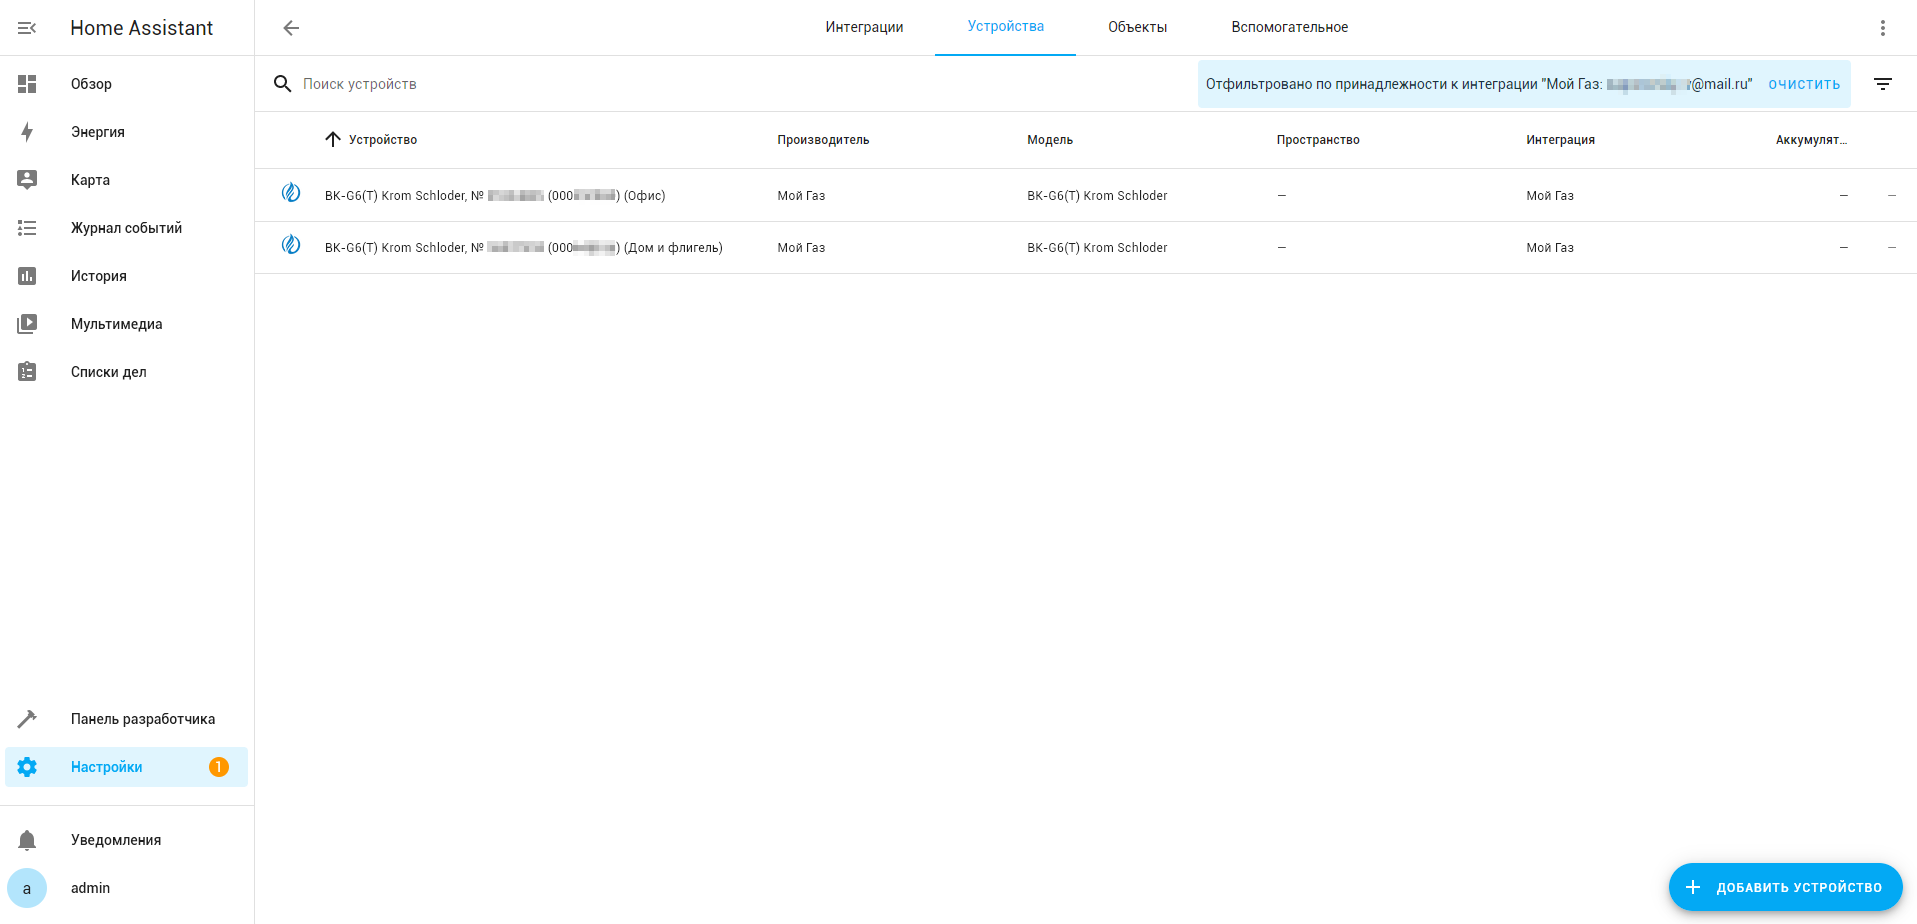
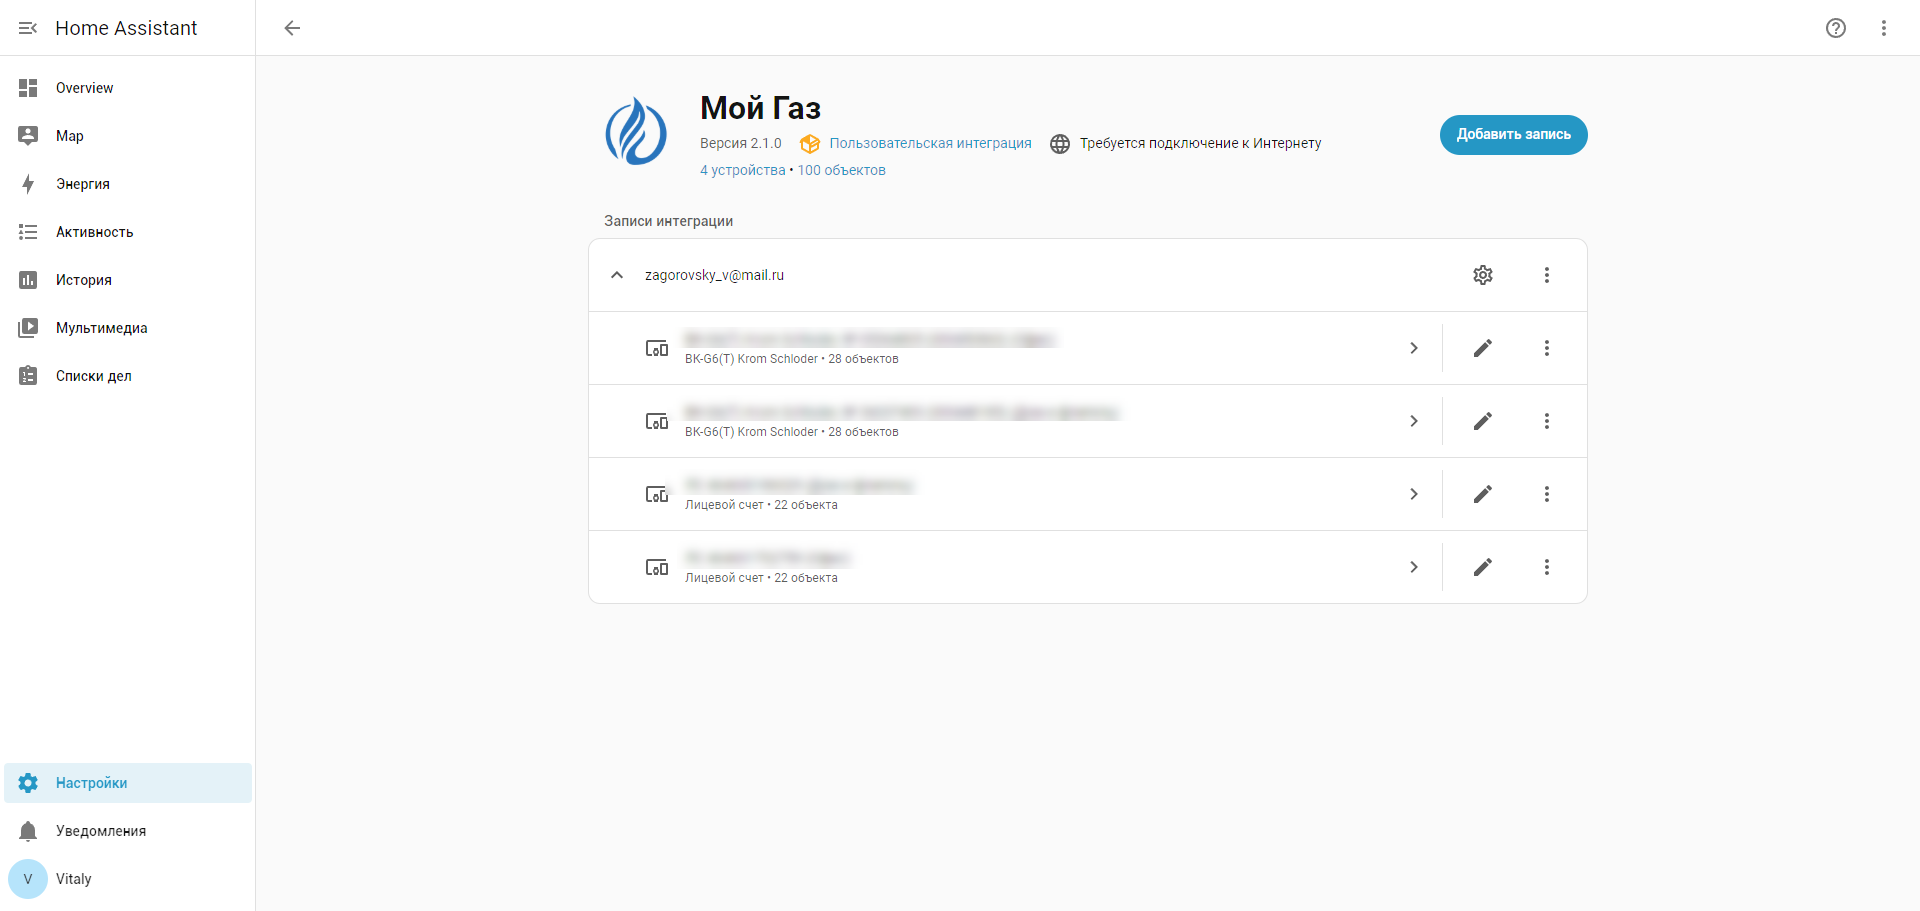
Consolidate v2.0.0 + v2.1.0 into v2.0.0 release, update screenshots

diff --git a/CHANGELOG.md b/CHANGELOG.md
@@ -5,30 +5,6 @@ All notable changes to this project will be documented in this file.
 The format is based on [Keep a Changelog](https://keepachangelog.com/en/1.0.0/),
 and this project adheres to [Semantic Versioning](https://semver.org/spec/v2.0.0.html).
 
-## [2.1.0] - 2026-02-18
-
-### Added
-
- - Добавлен Options Flow для настройки интервала обновления данных (1-168 часов, по умолчанию 24).
- - Добавлены переводы исключений (translated exceptions) в сервисах.
- - Добавлены секции `options` и `exceptions` в `strings.json` и файлы переводов.
-
-### Changed
-
- - Декоратор `async_api_request_handler` разделён на `async_retry` (чистая логика повторов) и `async_api_request_handler` (маппинг исключений для координатора).
- - Валидация в config flow использует `async_retry` и общий метод `_async_try_validate`, убрана дублированная обработка ошибок.
- - Переименовано `avabl_fn` → `available_fn` в entity descriptions.
- - Переименованы приватные хелперы `_to_str`, `_to_float`, `_to_int`, `_to_date` → `to_str`, `to_float`, `to_int`, `to_date`.
- - Добавлены аннотации `Final` к константам `SERVICE_SEND_READINGS`, `ATTR_ELS`, `ATTR_IS_ELS`, `ATTR_LSPU_INFO_GROUP`.
- - Убраны `after_dependencies` и `integration_type` из `manifest.json`.
- - Версия обновлена до 2.1.0.
-
-### Fixed
-
- - Исправлена ошибка `date.today()` → `dt_util.now().date()` в `helpers.py` и `coordinator.py` (учёт часового пояса HA).
- - Исправлена мёртвая обработка исключений в `_async_update_data`: `MyGasAuthError` не достигал блока, т.к. уже конвертировался декоратором.
- - Улучшена диагностика: редактирование `phone` и `email` в данных координатора.
-
 ## [2.0.0] - 2026-02-18
 
 ### Added
@@ -39,8 +15,10 @@ and this project adheres to [Semantic Versioning](https://semver.org/spec/v2.0.0
  - Устройства счетчиков привязаны к устройству аккаунта через `via_device`.
  - Добавлены сенсоры расчетного периода: начислено, оплачено, задолженность за период (включены по умолчанию), а также 14 дополнительных сенсоров (отключены по умолчанию): расчетный период, дата периода, сальдо на начало/конец, начисленный объем, оборот, списанная задолженность, плановая сумма, льготы, льготный объем, восстановленная задолженность, корректировки платежей, сальдо АПГП, авансовые начисления.
  - Устройства аккаунтов получили информативные имена: `ЛС {номер} ({алиас})`.
+ - Добавлен Options Flow для настройки интервала обновления данных (1-168 часов, по умолчанию 24).
  - Добавлен модуль диагностики (`diagnostics.py`).
- - Добавлен файл `strings.json` для hassfest.
+ - Добавлены переводы исключений (translated exceptions) в сервисах.
+ - Добавлен файл `strings.json` для hassfest с секциями `options` и `exceptions`.
  - Добавлены шаги `reconfigure` и `reauth_confirm` в переводы.
  - Добавлены юнит-тесты (config flow, init, coordinator, устройства аккаунта, сенсоры расчетного периода).
  - Добавлен CI workflow для запуска тестов.
@@ -48,25 +26,31 @@ and this project adheres to [Semantic Versioning](https://semver.org/spec/v2.0.0
 ### Changed
 
  - Миграция на `runtime_data` вместо `hass.data[DOMAIN]`.
+ - Декоратор `async_api_request_handler` разделён на `async_retry` (чистая логика повторов) и `async_api_request_handler` (маппинг исключений для координатора).
+ - Валидация в config flow использует `async_retry` и общий метод `_async_try_validate`, убрана дублированная обработка ошибок.
  - Выделен общий базовый класс `MyGasCoordinatorEntity` для сущностей аккаунта и счетчика.
  - Извлечен хелпер `make_entity_unique_id()` для генерации unique_id сущностей.
- - Убран `update_listener` (options flow отсутствует).
  - Упрощена выгрузка интеграции (`async_unload_entry`).
  - Координатор использует внутренний `_LOGGER` и `config_entry=` в `super().__init__()`.
  - Упрощены entity description классы (убран Mixin, один класс).
  - Убраны hardcoded `name` и `icon` из entity descriptions (используются `translation_key` и `icons.json`).
  - Убрана ручная генерация `entity_id` (`async_generate_entity_id`).
  - `sw_version` в DeviceInfo заменён на `aiomygas.__version__`.
+ - Переименовано `avabl_fn` → `available_fn` в entity descriptions.
+ - Переименованы приватные хелперы `_to_str`, `_to_float`, `_to_int`, `_to_date` → `to_str`, `to_float`, `to_int`, `to_date`.
+ - Добавлены аннотации `Final` к константам.
  - Удалены неиспользуемые константы, хелперы и исключения.
  - Сужен перехват исключений в `services.py`.
  - Улучшена типизация: добавлены аннотации типов в координатор и entity descriptions.
  - Рефакторинг `find_account_by_device_id()` — кэширование `get_counters()`, использование `enumerate()`.
- - Обновлён `manifest.json`: убраны пустые массивы, обновлена версия.
+ - Обновлён `manifest.json`: убраны `after_dependencies`, `integration_type`, пустые массивы.
  - Обновлена зависимость `aiomygas` до версии 2.4.
  - Обновлён `hassfest.yaml` на `actions/checkout@v4`.
 
 ### Fixed
 
+ - Исправлена ошибка `date.today()` → `dt_util.now().date()` в `helpers.py` и `coordinator.py` (учёт часового пояса HA).
+ - Исправлена мёртвая обработка исключений в `_async_update_data`: `MyGasAuthError` не достигал блока, т.к. уже конвертировался декоратором.
  - Исправлена ошибка `is list` вместо `isinstance()` при обработке ответа LSPU API.
  - Исправлена ошибка `NameError` при первом показе формы реавторизации.
  - Добавлена валидация учетных данных при реконфигурации.
@@ -74,6 +58,7 @@ and this project adheres to [Semantic Versioning](https://semver.org/spec/v2.0.0
  - Исправлена обработка ошибок аутентификации — `ConfigEntryAuthFailed` больше не перехватывается как `UpdateFailed`.
  - Исправлена опечатка `lspu_acount_id` → `lspu_account_id` в координаторе.
  - Убрано устаревшее предупреждение в логах для аккаунтов без счетчиков.
+ - Диагностика: редактирование `phone` и `email` в данных координатора.
 
 ## [1.6.1] - 2025-11-23
 

diff --git a/README.md b/README.md
@@ -71,9 +71,13 @@
 - **Устройство аккаунта** — `ЛС {номер_лс} ({алиас})`, например: `ЛС 1234567890 (Офис)`. Если алиас не задан: `ЛС 1234567890`.
 - **Устройство счетчика** — `{название_счетчика} ({алиас})`, например: `BK-G6(T) Krom Schloder, № 05364805 (Офис)`. Если алиас не задан, отображается только название счетчика.
 
-Общий вид устройства в Home Assistant.
+Общий вид устройства аккаунта в Home Assistant.
 
-![Установка mygas 7](images/setup-07.png)
+![Устройство аккаунта](images/account_device.png)
+
+Общий вид устройства счетчика в Home Assistant.
+
+![Устройство счетчика](images/setup-07.png)
 
 # Сенсоры
 
@@ -130,7 +134,7 @@
  - Телефон
  - Адрес
 
-![Сенсоры mygas 3](images/sensors-03.png)
+![Сенсоры mygas 3](images/setup-08.png)
 
 Сенсор `Счетчик` имеет дополнительные атрибуты:
 
@@ -147,7 +151,7 @@
  - Дата заводской пломбы
  - Дата изготовления прибора
 
-![Сенсоры mygas 4](images/sensors-04.png)
+![Сенсоры mygas 4](images/setup-09.png)
 
 ## Кнопки
 
